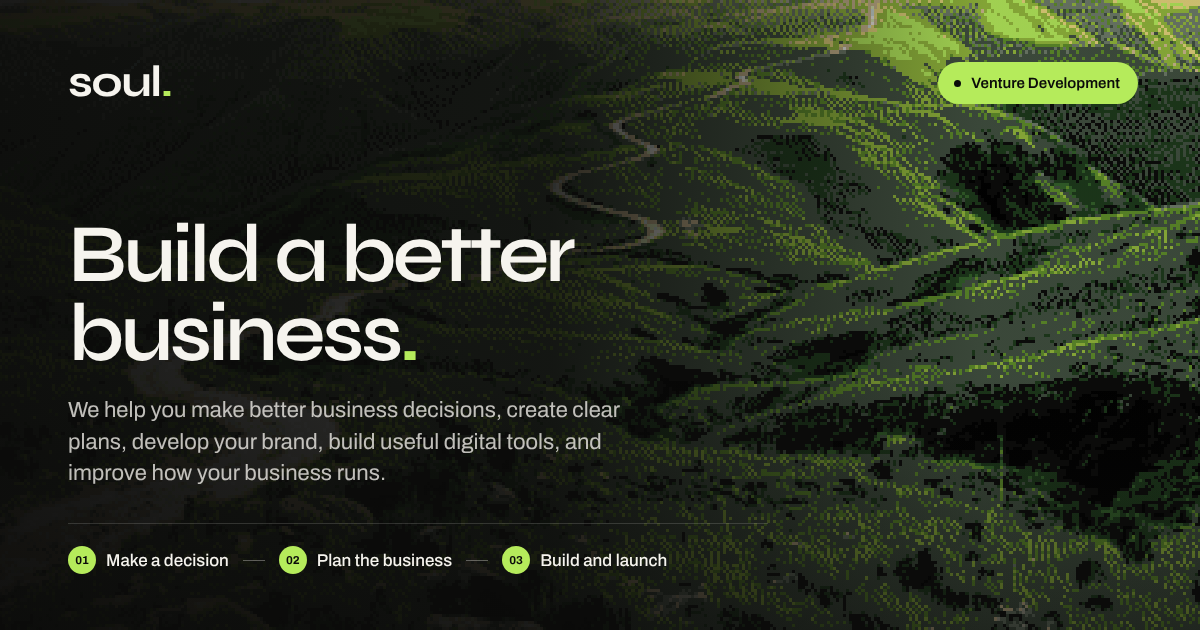
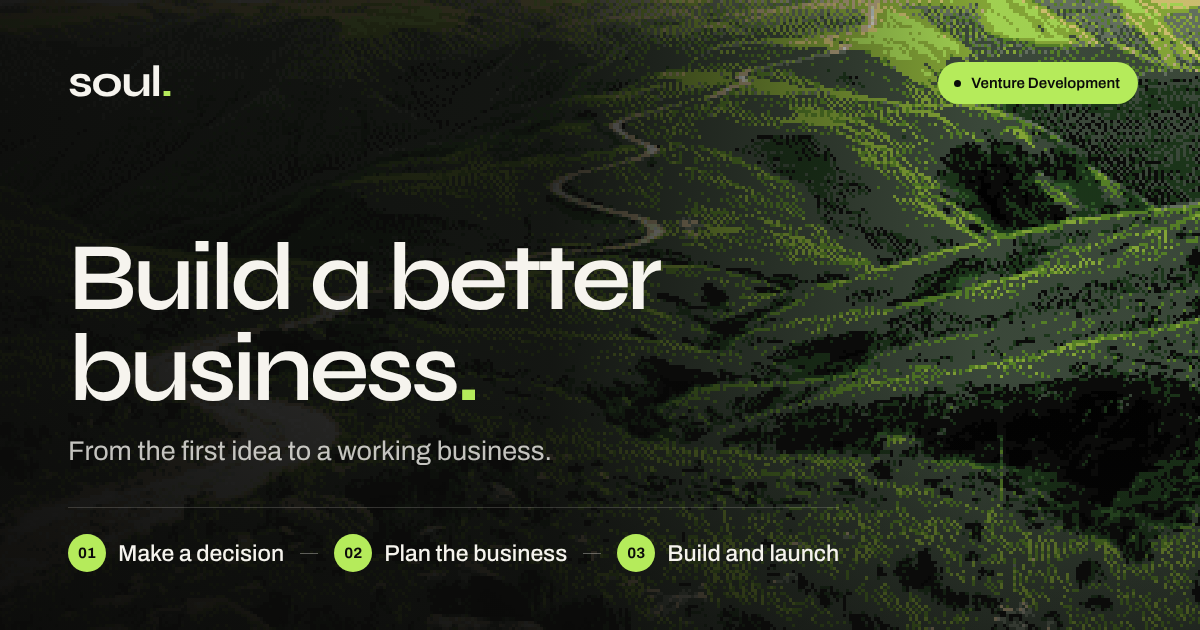
Add files via upload

Changed region(s): [[0.0617, 0.3619, 0.555, 0.6635], [0.0308, 0.6937, 0.5242, 0.7841], [0.0617, 0.8444, 0.7092, 0.9048]]

diff --git a/contact.html b/contact.html
@@ -171,9 +171,9 @@ a{color:inherit;text-decoration:none}
 /* ════════ LET'S TALK ════════ */
 .ct{background:var(--light);color:var(--ink);padding-top:clamp(140px,13vw,190px);padding-bottom:clamp(90px,9vw,140px)}
 .ct-grid{display:grid;grid-template-columns:repeat(12,minmax(0,1fr));column-gap:24px;grid-template-rows:auto 1fr}
-.ct-side{grid-column:1 / span 6;grid-row:1}
+.ct-side{grid-column:1 / span 5;grid-row:1}
 .ct-side .label{color:var(--ink-2)}
-.ct h1{margin:20px 0 0;font-size:clamp(44px,4.6vw,76px);white-space:nowrap;line-height:.98;letter-spacing:-.035em}
+.ct h1{margin:20px 0 0;font-size:clamp(40px,4.1vw,68px);white-space:nowrap;line-height:.98;letter-spacing:-.035em}
 .ct-sub{margin:24px 0 0;max-width:40ch;font-size:clamp(16px,1.2vw,18px);line-height:1.6;color:var(--ink-2)}
 .mk{background:linear-gradient(var(--green),var(--green)) 0 86% / 0% 30% no-repeat;transition:background-size 1.2s var(--inout) .9s;-webkit-box-decoration-break:clone;box-decoration-break:clone}
 .on .mk{background-size:100% 30%}
@@ -288,6 +288,27 @@ h1.rise .ln:nth-child(2) > span{transition-delay:.09s}
 
 
 
+
+/* Let's talk: the road runs into the form. A landscape window sits at the top of the form column and the white form card rises out of it */
+.ct-stage{grid-column:6 / span 7;grid-row:1 / span 2;position:relative;padding:clamp(130px,11vw,170px) clamp(20px,2vw,30px) 0}
+.ct-stage .ct-form{grid-column:auto;grid-row:auto;position:relative;z-index:1}
+.ct-scene{position:absolute;left:0;right:0;top:0;height:clamp(340px,30vw,440px);border-radius:24px;overflow:hidden;background:var(--ink);isolation:isolate;
+  opacity:0;transition:opacity 1s ease .05s}
+.on .ct-scene{opacity:1}
+.ct-scene img{position:absolute;inset:0;width:100%;height:100%;object-fit:cover;object-position:30% 42%;image-rendering:pixelated;transform:scale(1.12);transition:transform 2.6s var(--ease) .05s}
+.on .ct-scene img{transform:none}
+.ct-scene::after{content:"";position:absolute;inset:0;background:linear-gradient(180deg,rgba(11,11,10,.55) 0%,rgba(11,11,10,0) 38%)}
+.ct-scene-k{position:absolute;z-index:1;left:clamp(22px,2.4vw,36px);top:clamp(20px,2vw,28px);display:inline-flex;align-items:center;gap:10px;font-size:11.5px;font-weight:600;font-stretch:112%;letter-spacing:.09em;text-transform:uppercase;color:#F6F4EE}
+.ct-scene-k i{width:7px;height:7px;border-radius:50%;background:var(--green)}
+.ct-stage .ct-form-head .ct-fk{display:none}
+.ct-stage .ct-form-head h2{margin-top:0}
+@media (max-width:900px){
+  .ct-stage{margin-top:32px;padding:104px 10px 0}
+  .ct-stage .ct-form{margin-top:0}
+  .ct-scene{height:220px;border-radius:20px}
+  .ct-scene-k{left:18px;top:18px}
+}
+
 /* the end of the page: the rocks run down behind the footer */
 .endscene{position:relative;background:var(--ink);overflow:hidden}
 .endscene .meet{position:relative;margin:0;background:var(--light);isolation:isolate;height:clamp(420px,44vw,680px)}
@@ -303,6 +324,27 @@ h1.rise .ln:nth-child(2) > span{transition-delay:.09s}
   .endscene .sfoot2{margin-top:-96px}
 }
 @media (prefers-reduced-motion:reduce){ *{transition-duration:.01ms!important;transition-delay:0s!important} h1.rise .ln > span{transform:none} }
+
+/* nav: the current page gets a small lime dot (the same marker as the mobile menu), not the hover underline */
+.links a[aria-current]::after{display:none}
+.links a[aria-current]::before{content:"";position:absolute;left:-12px;top:50%;width:6px;height:6px;margin-top:-3px;border-radius:50%;background:var(--green)}
+.nav.on-light .links a[aria-current]::before,.nav.on-green .links a[aria-current]::before{background:var(--green-ink)}
+
+/* phones: the page opens on the landscape. The heading sits on the road hills (like the share cover) and the form card overlaps the bottom of it */
+@media (max-width:900px){
+  .ct-side{position:relative;isolation:isolate;overflow:hidden;padding:26px 20px 96px;border-radius:24px;background:var(--ink);color:#F6F4EE}
+  .ct-side > .ct-scene{position:absolute;inset:0;height:auto;border-radius:0;z-index:-1}
+  .ct-side > .ct-scene img{object-position:62% 40%}
+  .ct-side > .ct-scene::after{background:linear-gradient(180deg,rgba(11,11,10,.8) 0%,rgba(11,11,10,.58) 52%,rgba(11,11,10,.3) 100%)}
+  .ct-side > .ct-scene .ct-scene-k{display:none}
+  .ct-side .label{color:rgba(246,244,238,.72)}
+  .ct-side h1{color:#F6F4EE;font-size:min(clamp(30px,10.4vw,54px),calc((100vw - 84px) / 7.8))}
+  .ct-side .ct-sub{text-wrap:pretty}
+  /* on the dark landscape the highlight band fought the white text: here "next step." is simply lime */
+  .ct-side .mk{background:none;color:var(--green)}
+  .ct-side .ct-sub{color:rgba(246,244,238,.82)}
+  .ct-stage{margin-top:-68px;padding:0 10px}
+}
 </style>
 </head>
 <body>
@@ -347,7 +389,9 @@ h1.rise .ln:nth-child(2) > span{transition-delay:.09s}
       <p class="ct-sub ct-in">Starting a business? Trying to improve one? Looking for a business partner? Tell us what you’re working on and what you need help with.</p>
     </div>
 
-    <form class="ct-form" id="ctForm" novalidate >
+    <div class="ct-stage">
+      <div class="ct-scene" aria-hidden="true"><img src="assets/img/contact-01-f98b874833.png" alt=""><span class="ct-scene-k"><i></i>Start the conversation</span></div>
+      <form class="ct-form" id="ctForm" novalidate >
       <div class="ct-form-head"><span class="ct-fk">Start the conversation</span><h2 class="display">Tell us a little about it.</h2></div>
       <fieldset class="ct-g">
         <legend>What would you like to talk about?</legend>
@@ -376,6 +420,7 @@ h1.rise .ln:nth-child(2) > span{transition-delay:.09s}
       <button class="ct-btn" type="submit"><span>Send message</span><i><svg width="14" height="14" viewBox="0 0 16 16" fill="none" aria-hidden="true"><path d="M3 8h10M9 4l4 4-4 4" stroke="currentColor" stroke-width="1.7" stroke-linecap="square"/></svg></i></button>
             <p class="ct-status" id="ctStatus" role="status" aria-live="polite"></p>
     </form>
+    </div>
 
     <div class="ct-next">
       <span class="ct-k">What happens next</span>
@@ -389,7 +434,7 @@ h1.rise .ln:nth-child(2) > span{transition-delay:.09s}
 </main>
 
 <div class="endscene">
-  <div class="meet" aria-hidden="true"><div class="meet-layer"><img src="assets/img/contact-01-947af2ddac.png" alt=""></div></div>
+  <div class="meet" aria-hidden="true"><div class="meet-layer"><img src="assets/img/contact-02-947af2ddac.png" alt=""></div></div>
 <footer class="sfoot2 wrap" id="footer">
   <div class="sf2">
     <div class="sf2-top">
@@ -441,6 +486,15 @@ h1.rise .ln:nth-child(2) > span{transition-delay:.09s}
     if (!ok) { status.textContent = ''; const first = form.querySelector('.ct-f.err input, .ct-f.err textarea'); if (first) first.focus(); return; }
     status.textContent = 'Thanks for writing. Our enquiry form opens soon, so this message hasn’t been sent yet.';
   });
+})();
+</script>
+<script>
+/* phones: the landscape moves behind the heading; on wider screens it goes back above the form */
+(() => {
+  const sc = document.querySelector('.ct-scene'), side = document.querySelector('.ct-side'), stage = document.querySelector('.ct-stage');
+  if (!sc || !side || !stage) return;
+  const place = () => { const m = innerWidth <= 900; if (m && sc.parentNode !== side) side.prepend(sc); else if (!m && sc.parentNode !== stage) stage.prepend(sc); };
+  place(); addEventListener('resize', place);
 })();
 </script>
 </body>

diff --git a/venture-development.html b/venture-development.html
@@ -255,10 +255,15 @@ a{color:inherit;text-decoration:none}
 .pc-list i svg{width:10px;height:10px;display:block}
 @media (hover:hover){
   .pc,.pc h3,.pc-for,.pc-k,.pc-big,.pc-list li,.pc-get,.pc-body{transition-property:opacity,transform,box-shadow,background,color,border-color;transition-duration:.9s,1.05s,.4s,.45s,.45s,.45s;transition-timing-function:ease,var(--ease),ease,ease,ease,ease}
-  .pc.vis:hover{transition-delay:0s;transform:translateY(-6px);background:var(--ink);box-shadow:0 34px 60px -30px rgba(11,11,10,.45)}
-  .pc:hover h3,.pc:hover .pc-big,.pc:hover .pc-list li{color:#F6F4EE}
-  .pc:hover .pc-for,.pc:hover .pc-k{color:rgba(237,235,230,.6)}
-  .pc:hover .pc-get,.pc:hover .pc-body{border-top-color:rgba(237,235,230,.12)}
+  /* hover: the card stays white and lifts; a lime line draws across the top, the step pill turns ink, the ticks fill lime in turn */
+  .pc{overflow:hidden}
+  .pc::before{content:"";position:absolute;left:0;right:0;top:0;height:4px;background:var(--green);transform:scaleX(0);transform-origin:left;transition:transform .6s var(--ease)}
+  .pc.vis:hover{transition-delay:0s;transform:translateY(-6px);box-shadow:0 1px 0 rgba(11,11,10,.04),0 34px 60px -34px rgba(11,11,10,.32)}
+  .pc:hover::before{transform:none}
+  .pc-step{transition:background .4s ease,color .4s ease}
+  .pc-step i{transition:background .4s ease}
+  .pc:hover .pc-step{background:var(--ink);color:#F6F4EE}
+  .pc:hover .pc-step i{background:var(--green)}
   .pc-list i{transition:background .35s ease,color .35s ease}
   .pc:hover .pc-list i{background:var(--green);color:var(--ink)}
   .pc:hover .pc-list li:nth-child(2) i{transition-delay:.06s}
@@ -551,6 +556,11 @@ h2.rise .ln:nth-child(2) > span{transition-delay:.09s}
 .nx h2.rise .ln > span{display:block}
 @media (prefers-reduced-motion:reduce){ h2.rise .ln > span{transform:none} }
 @media (prefers-reduced-motion:reduce){ *{transition-duration:.01ms!important;transition-delay:0s!important} }
+
+/* nav: the current page gets a small lime dot (the same marker as the mobile menu), not the hover underline */
+.links a[aria-current]::after{display:none}
+.links a[aria-current]::before{content:"";position:absolute;left:-12px;top:50%;width:6px;height:6px;margin-top:-3px;border-radius:50%;background:var(--green)}
+.nav.on-light .links a[aria-current]::before,.nav.on-green .links a[aria-current]::before{background:var(--green-ink)}
 </style>
 </head>
 <body>

diff --git a/index.html b/index.html
@@ -2041,6 +2041,16 @@ a:focus-visible,button:focus-visible{outline:2px solid var(--green);outline-offs
 
 a.dr{text-decoration:none}
 
+/* ── v66 ── */
+/* phones: the hero headline a step bigger */
+@media (max-width:760px){ .hero-d .hd-h,.hd-h{font-size:clamp(40px,12.8vw,60px)} }
+@media (max-width:760px) and (max-height:740px){ .hd-h{font-size:41px!important} }
+
+/* nav: the current page gets a small lime dot (the same marker as the mobile menu), not the hover underline */
+.links a[aria-current]::after{display:none}
+.links a[aria-current]::before{content:"";position:absolute;left:-12px;top:50%;width:6px;height:6px;margin-top:-3px;border-radius:50%;background:var(--green)}
+.nav.on-light .links a[aria-current]::before,.nav.on-green .links a[aria-current]::before{background:var(--green-ink)}
+
 /* preview build: case-study buttons open the case study page; the arrow now slides sideways */
 .p-cta.cs .arr svg + svg{transform:translateX(-160%)}
 .p-cta.cs:hover .arr svg:first-child{transform:translateX(160%)}
@@ -2385,15 +2395,7 @@ a.dr{text-decoration:none}
   </div>
   <div class="fq-list">
       <div class="fq open">
-        <button type="button" class="fq-q" aria-expanded="true"><span>Do I have to buy a full package?</span><i aria-hidden="true"></i></button>
-        <div class="fq-a"><div><p>No. You don’t have to buy a full package. We can help with one specific need, or across several areas if that’s what your business needs.</p></div></div>
-      </div>
-      <div class="fq">
-        <button type="button" class="fq-q" aria-expanded="false"><span>How do we agree what you’ll do?</span><i aria-hidden="true"></i></button>
-        <div class="fq-a"><div><p>We listen first, recommend practical next steps, then explain what we’ll do, what you’ll receive and what the work involves. Nothing starts until we’ve both agreed.</p></div></div>
-      </div>
-      <div class="fq">
-        <button type="button" class="fq-q" aria-expanded="false"><span>How much does it cost?</span><i aria-hidden="true"></i></button>
+        <button type="button" class="fq-q" aria-expanded="true"><span>How much does it cost?</span><i aria-hidden="true"></i></button>
         <div class="fq-a"><div><p>It depends on what the work involves. We agree the scope and the fee with you before any work begins, so there are no surprises.</p></div></div>
       </div>
       <div class="fq">

diff --git a/404.html b/404.html
@@ -780,6 +780,11 @@ a{color:inherit;text-decoration:none}
 /* v28 · the supporting service gets a quieter tag */
 .pr-side .pr-tag{background:transparent;box-shadow:inset 0 0 0 1px rgba(237,235,230,.32);color:rgba(237,235,230,.82)}
 
+/* nav: the current page gets a small lime dot (the same marker as the mobile menu), not the hover underline */
+.links a[aria-current]::after{display:none}
+.links a[aria-current]::before{content:"";position:absolute;left:-12px;top:50%;width:6px;height:6px;margin-top:-3px;border-radius:50%;background:var(--green)}
+.nav.on-light .links a[aria-current]::before,.nav.on-green .links a[aria-current]::before{background:var(--green-ink)}
+
 /* 404 / coming soon */
 .nf{min-height:min(62vh,640px);padding-top:clamp(150px,15vw,220px)}
 .nf h2{max-width:none}

diff --git a/about.html b/about.html
@@ -779,6 +779,11 @@ a{color:inherit;text-decoration:none}
 
 /* v28 · the supporting service gets a quieter tag */
 .pr-side .pr-tag{background:transparent;box-shadow:inset 0 0 0 1px rgba(237,235,230,.32);color:rgba(237,235,230,.82)}
+
+/* nav: the current page gets a small lime dot (the same marker as the mobile menu), not the hover underline */
+.links a[aria-current]::after{display:none}
+.links a[aria-current]::before{content:"";position:absolute;left:-12px;top:50%;width:6px;height:6px;margin-top:-3px;border-radius:50%;background:var(--green)}
+.nav.on-light .links a[aria-current]::before,.nav.on-green .links a[aria-current]::before{background:var(--green-ink)}
 </style>
 </head>
 <body>
